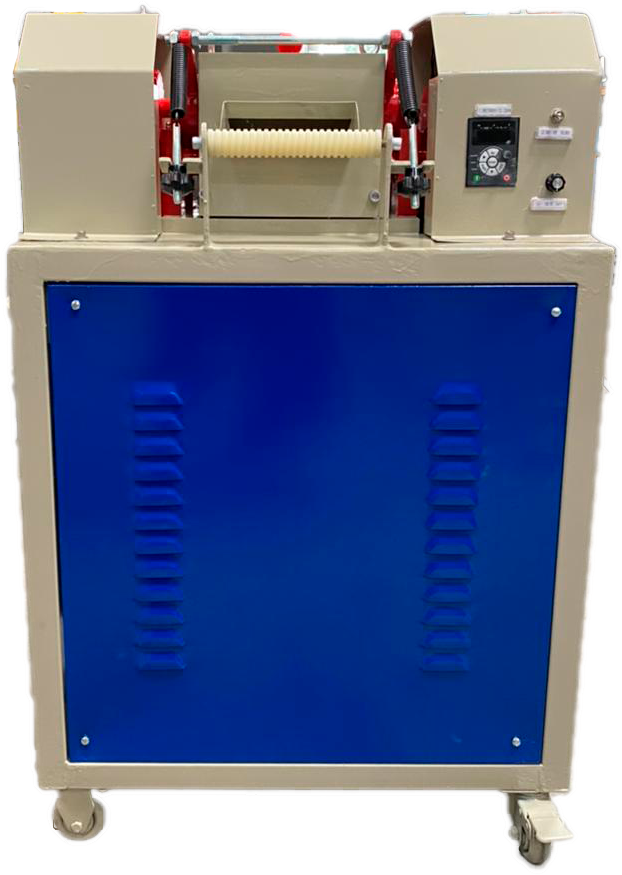
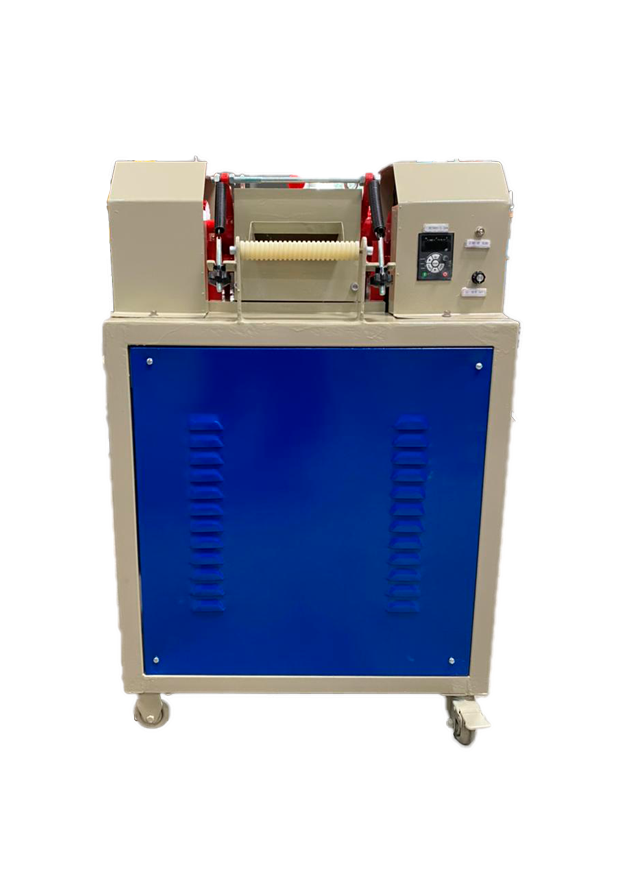
Ajustando as imagens dos produtps

diff --git a/index.html b/index.html
@@ -101,7 +101,7 @@
             </a>
             <a href="#">
                 <div class="card">
-                    <img class="card-img" src="./Assets/Produtos/Rosca-Canhao/Rosca Conica - extrusao1.jpg" alt="">
+                    <img class="card-img" src="./Assets/Produtos/Rosca-Canhao/Rosca Conica.png" alt="">
                     <h3 class="card-title">Rosca e Canhão</h3>
                 </div>
             </a>
@@ -149,7 +149,7 @@
             </a>
             <a href="#">
                 <div class="card">
-                    <img class="card-img" src="./Assets/Produtos/Puxador-Caterpillar/Puxador_Caterpillar.png4.jpg" alt="">
+                    <img class="card-img" src="./Assets/Produtos/Puxador-Caterpillar/Puxador_Caterpillar.png" alt="">
                     <h3 class="card-title">Puxador Caterpillar</h3>
                 </div>
             </a>
